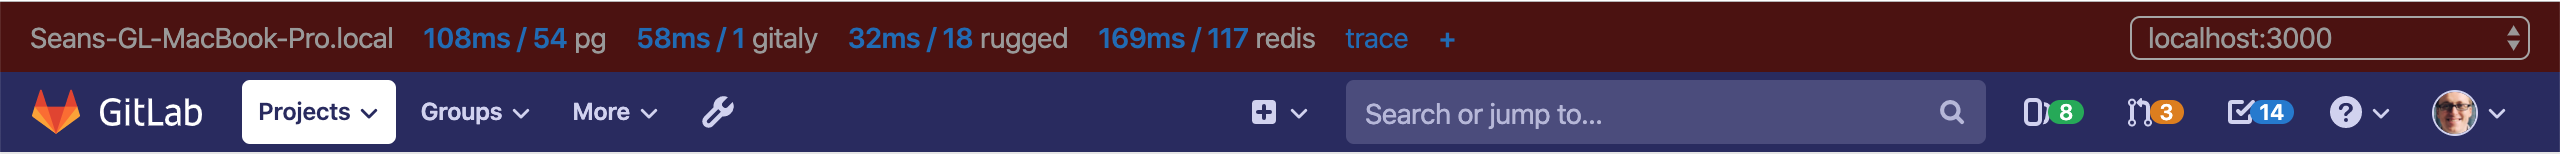
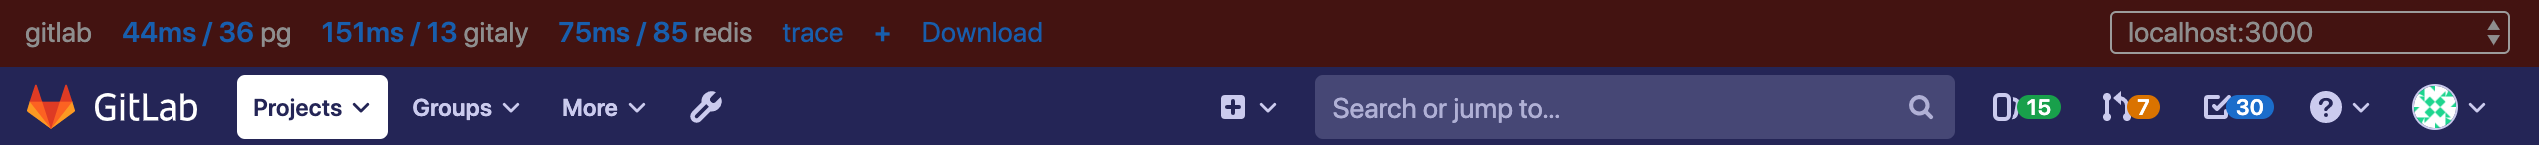
Add 'Download' button to Performance Bar
This change adds a new 'Download' button to the Performance Bar
that allows users to download the raw Perf Bar JSON from all
completed requests.

diff --git a/spec/frontend/performance_bar/components/request_selector_spec.js b/spec/frontend/performance_bar/components/request_selector_spec.js
@@ -4,23 +4,9 @@ import { shallowMount } from '@vue/test-utils';
 describe('request selector', () => {
   const requests = [
     {
-      id: '123',
-      url: 'https://gitlab.com/',
-      hasWarnings: false,
-    },
-    {
-      id: '456',
-      url: 'https://gitlab.com/gitlab-org/gitlab-foss/merge_requests/1',
-      hasWarnings: false,
-    },
-    {
-      id: '789',
-      url: 'https://gitlab.com/gitlab-org/gitlab-foss/merge_requests/1.json?serializer=widget',
-      hasWarnings: false,
-    },
-    {
-      id: 'abc',
+      id: 'warningReq',
       url: 'https://gitlab.com/gitlab-org/gitlab-foss/merge_requests/1/discussions.json',
+      truncatedUrl: 'discussions.json',
       hasWarnings: true,
     },
   ];
@@ -28,27 +14,8 @@ describe('request selector', () => {
   const wrapper = shallowMount(RequestSelector, {
     propsData: {
       requests,
-      currentRequest: requests[1],
+      currentRequest: requests[0],
     },
-  });
-
-  function optionText(requestId) {
-    return wrapper
-      .find(`[value='${requestId}']`)
-      .text()
-      .trim();
-  }
-
-  it('displays the last component of the path', () => {
-    expect(optionText(requests[2].id)).toEqual('1.json?serializer=widget');
-  });
-
-  it('keeps the last two components of the path when the last component is numeric', () => {
-    expect(optionText(requests[1].id)).toEqual('merge_requests/1');
-  });
-
-  it('ignores trailing slashes', () => {
-    expect(optionText(requests[0].id)).toEqual('gitlab.com');
   });
 
   it('has a warning icon if any requests have warnings', () => {
@@ -56,7 +23,7 @@ describe('request selector', () => {
   });
 
   it('adds a warning glyph to requests with warnings', () => {
-    const requestValue = wrapper.find('[value="abc"]').text();
+    const requestValue = wrapper.find('[value="warningReq"]').text();
 
     expect(requestValue).toContain('discussions.json');
     expect(requestValue).toContain('(!)');

diff --git a/spec/frontend/performance_bar/stores/performance_bar_store_spec.js b/spec/frontend/performance_bar/stores/performance_bar_store_spec.js
@@ -1,0 +1,45 @@
+import PerformanceBarStore from '~/performance_bar/stores/performance_bar_store';
+
+describe('PerformanceBarStore', () => {
+  describe('truncateUrl', () => {
+    let store;
+    const findUrl = id => store.findRequest(id).truncatedUrl;
+
+    beforeEach(() => {
+      store = new PerformanceBarStore();
+    });
+
+    it('ignores trailing slashes', () => {
+      store.addRequest('id', 'https://gitlab.com/');
+      expect(findUrl('id')).toEqual('gitlab.com');
+    });
+
+    it('keeps the last two components of the path when the last component is numeric', () => {
+      store.addRequest('id', 'https://gitlab.com/gitlab-org/gitlab-foss/merge_requests/1');
+      expect(findUrl('id')).toEqual('merge_requests/1');
+    });
+
+    it('uses the last component of the path', () => {
+      store.addRequest(
+        'id',
+        'https://gitlab.com/gitlab-org/gitlab-foss/merge_requests/1.json?serializer=widget',
+      );
+      expect(findUrl('id')).toEqual('1.json?serializer=widget');
+    });
+
+    it('keeps query components', () => {
+      store.addRequest('id', 'http://localhost:3001/h5bp/html5-boilerplate/?param');
+      expect(findUrl('id')).toEqual('html5-boilerplate?param');
+    });
+
+    it('keeps components when query contains a slash', () => {
+      store.addRequest('id', 'http://localhost:3001/h5bp/html5-boilerplate?trunc/ated');
+      expect(findUrl('id')).toEqual('html5-boilerplate?trunc/ated');
+    });
+
+    it('ignores fragments', () => {
+      store.addRequest('id', 'http://localhost:3001/h5bp/html5-boilerplate/#frag/ment');
+      expect(findUrl('id')).toEqual('html5-boilerplate');
+    });
+  });
+});

diff --git a/app/assets/javascripts/performance_bar/stores/performance_bar_store.js b/app/assets/javascripts/performance_bar/stores/performance_bar_store.js
@@ -5,9 +5,12 @@ export default class PerformanceBarStore {
 
   addRequest(requestId, requestUrl) {
     if (!this.findRequest(requestId)) {
+      const shortUrl = PerformanceBarStore.truncateUrl(requestUrl);
+
       this.requests.push({
         id: requestId,
         url: requestUrl,
+        truncatedUrl: shortUrl,
         details: {},
         hasWarnings: false,
       });
@@ -35,5 +38,21 @@ export default class PerformanceBarStore {
 
   canTrackRequest(requestUrl) {
     return this.requests.filter(request => request.url === requestUrl).length < 2;
+  }
+
+  static truncateUrl(requestUrl) {
+    const [rootAndQuery] = requestUrl.split('#');
+    const [root, query] = rootAndQuery.split('?');
+    const components = root.replace(/\/$/, '').split('/');
+
+    let truncated = components[components.length - 1];
+    if (truncated.match(/^\d+$/)) {
+      truncated = `${components[components.length - 2]}/${truncated}`;
+    }
+    if (query) {
+      truncated += `?${query}`;
+    }
+
+    return truncated;
   }
 }

diff --git a/app/assets/javascripts/performance_bar/components/performance_bar_app.vue b/app/assets/javascripts/performance_bar/components/performance_bar_app.vue
@@ -80,6 +80,15 @@ export default {
       }
       return '';
     },
+    downloadPath() {
+      const data = JSON.stringify(this.requests);
+      const blob = new Blob([data], { type: 'text/plain' });
+      return window.URL.createObjectURL(blob);
+    },
+    downloadName() {
+      const fileName = this.requests[0].truncatedUrl;
+      return `${fileName}_perf_bar_${Date.now()}.json`;
+    },
   },
   mounted() {
     this.currentRequest = this.requestId;
@@ -121,6 +130,9 @@ export default {
         <a :href="currentRequest.details.tracing.tracing_url">{{ s__('PerformanceBar|trace') }}</a>
       </div>
       <add-request v-on="$listeners" />
+      <div v-if="currentRequest.details" id="peek-download" class="view">
+        <a :download="downloadName" :href="downloadPath">{{ s__('PerformanceBar|Download') }}</a>
+      </div>
       <request-selector
         v-if="currentRequest"
         :current-request="currentRequest"

diff --git a/app/assets/javascripts/performance_bar/components/request_selector.vue b/app/assets/javascripts/performance_bar/components/request_selector.vue
@@ -40,16 +40,6 @@ export default {
     },
   },
   methods: {
-    truncatedUrl(requestUrl) {
-      const components = requestUrl.replace(/\/$/, '').split('/');
-      let truncated = components[components.length - 1];
-
-      if (truncated.match(/^\d+$/)) {
-        truncated = `${components[components.length - 2]}/${truncated}`;
-      }
-
-      return truncated;
-    },
     glEmojiTag,
   },
 };
@@ -63,7 +53,7 @@ export default {
         :value="request.id"
         class="qa-performance-bar-request"
       >
-        {{ truncatedUrl(request.url) }}
+        {{ request.truncatedUrl }}
         <span v-if="request.hasWarnings">(!)</span>
       </option>
     </select>

diff --git a/doc/administration/monitoring/performance/performance_bar.md b/doc/administration/monitoring/performance/performance_bar.md
@@ -19,6 +19,7 @@ It allows you to see (from left to right):
 - a link to add a request's details to the performance bar; the request can be
   added by its full URL (authenticated as the current user), or by the value of
   its `X-Request-Id` header
+- a link to download the raw JSON used to generate the Performance Bar reports
 
 On the far right is a request selector that allows you to view the same metrics
 (excluding the page timing and line profiler) for any requests made while the
